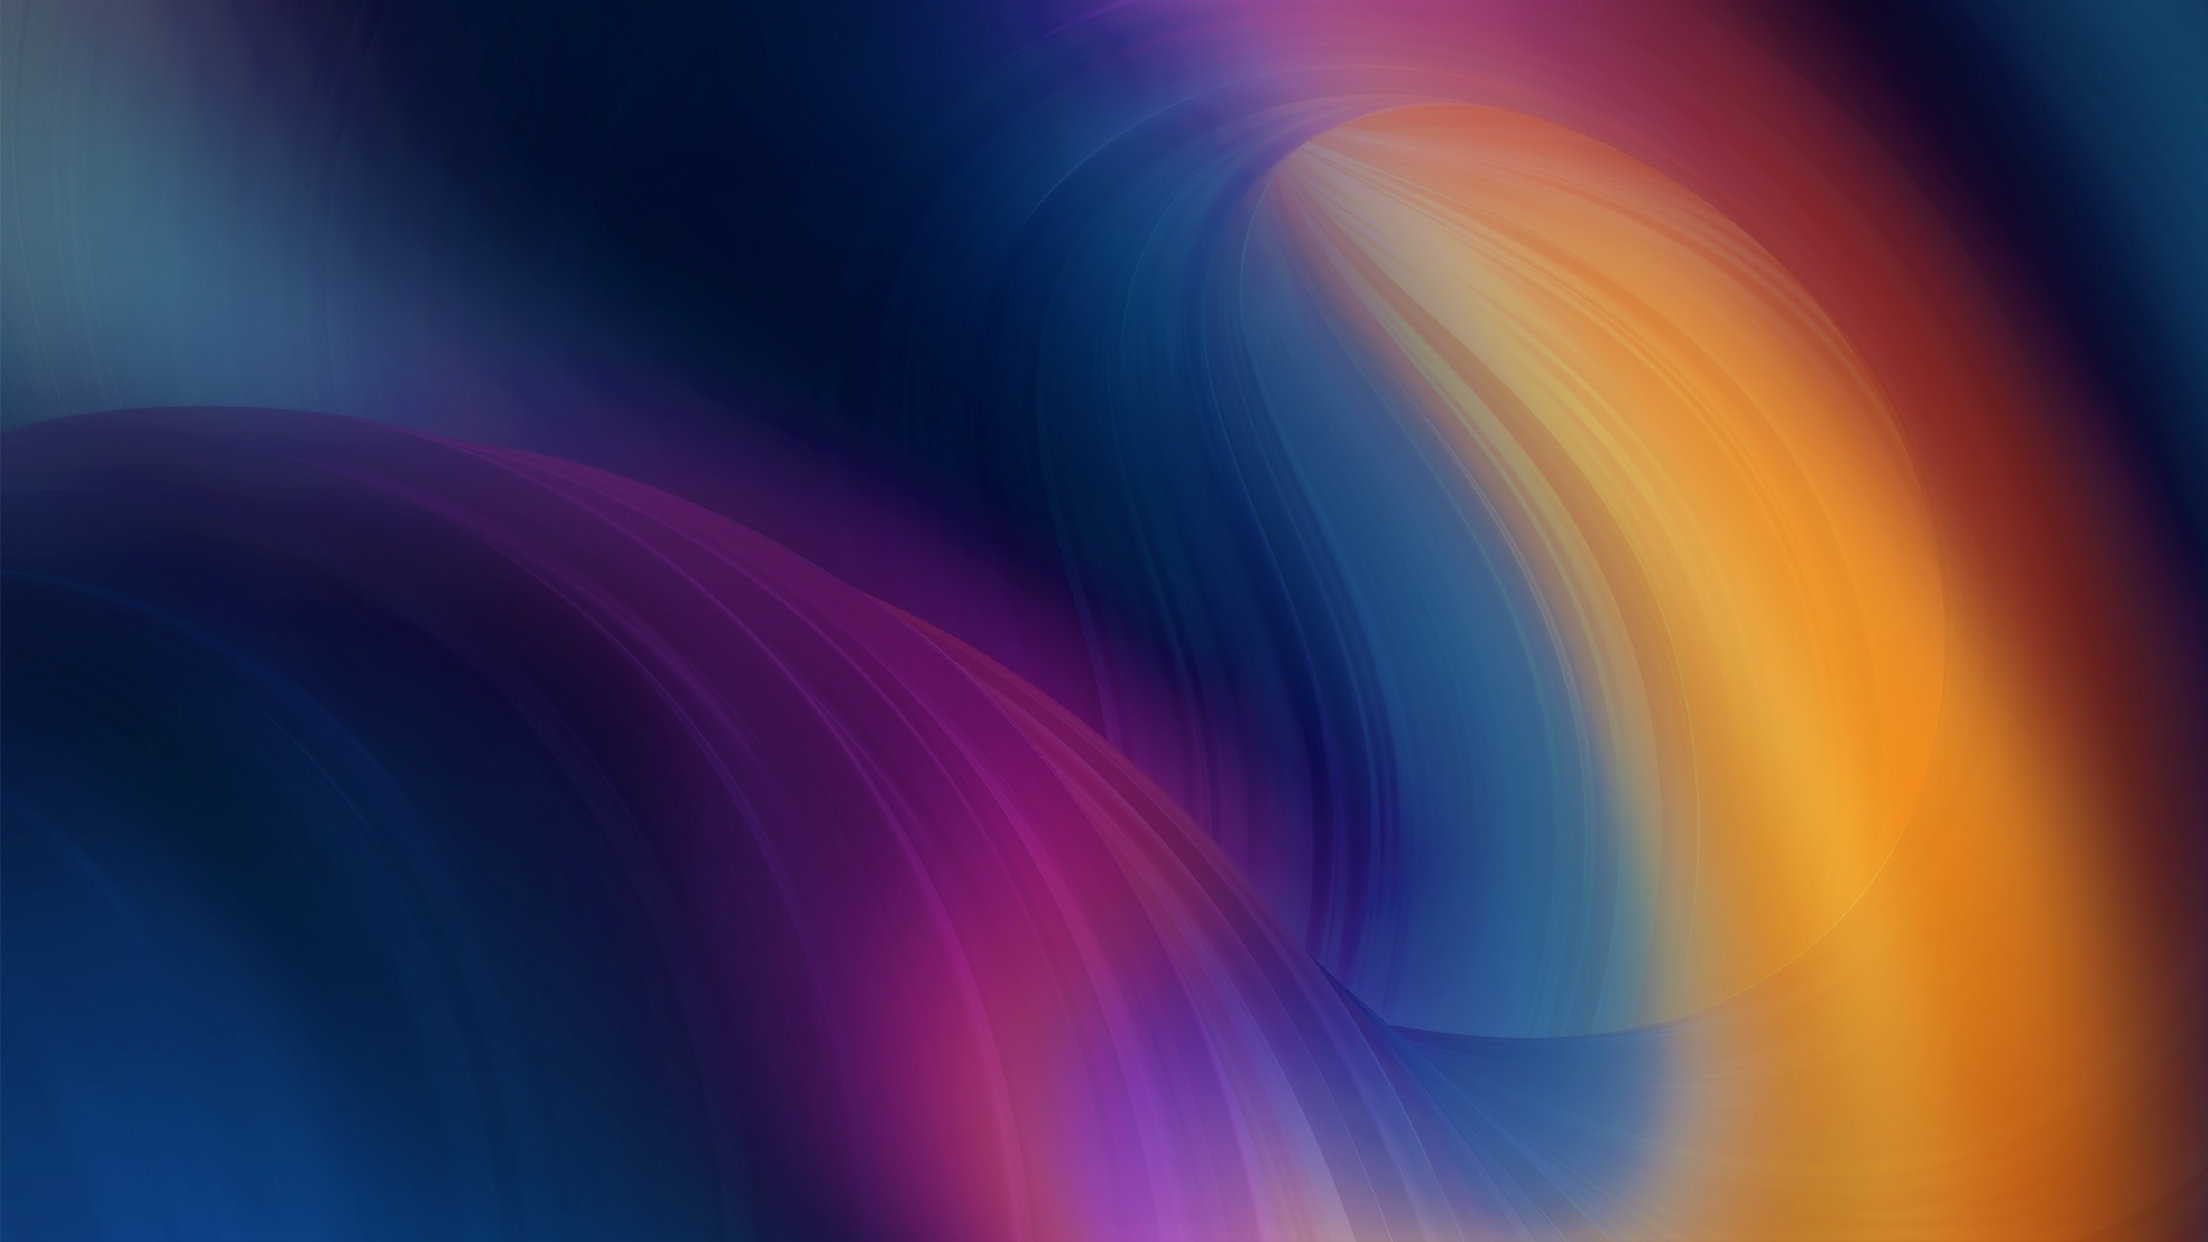
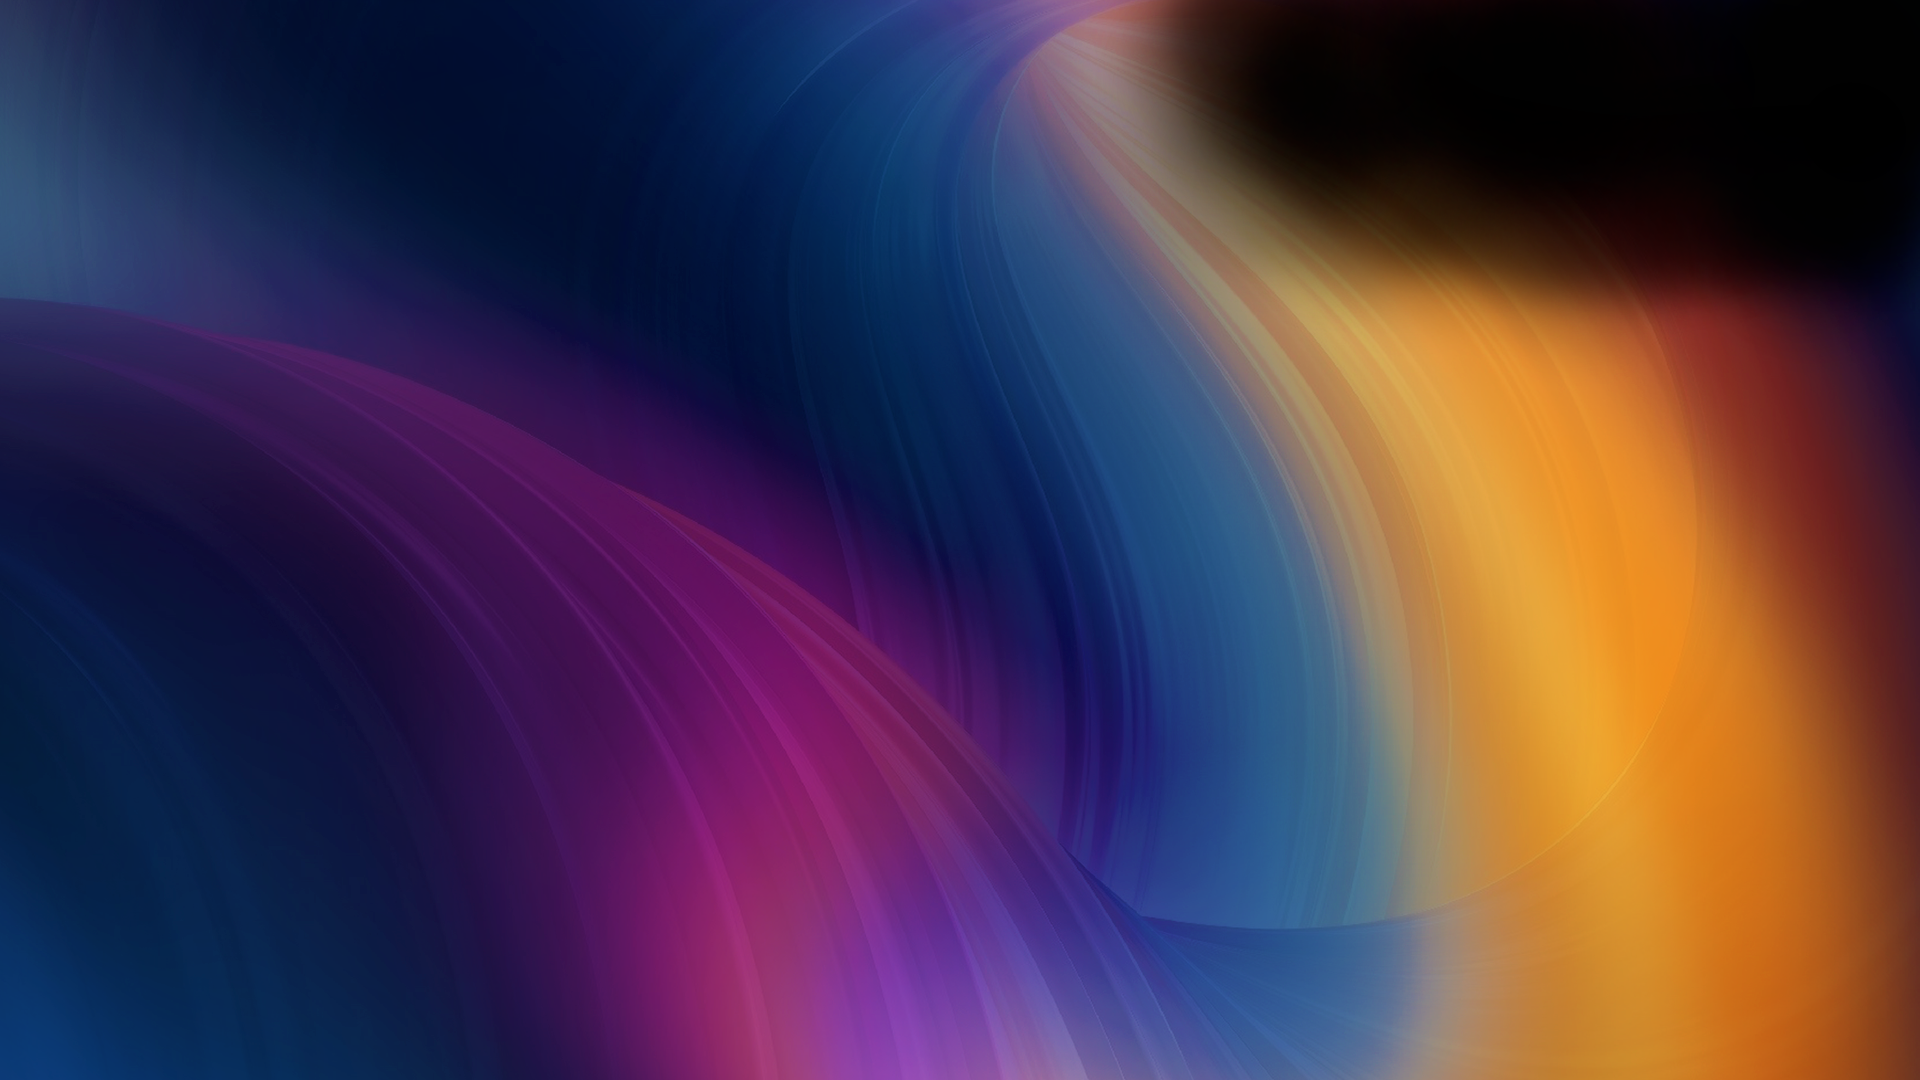
j'en ai marre

diff --git a/src/Exercice.py b/src/Exercice.py
@@ -80,9 +80,9 @@ class exercice(Thread):
             self.VideoPoint = utile.Patron(self.VideoPoint[:, 1], True)
         self.Video_thread.frame_count += 1
 
-    def AddData(self,listSum,ymax):
+    def AddData(self,listSum,ymin,ymax):
         plt.cla()
-        plt.ylim(0, ymax)
+        plt.ylim(ymin, ymax)
         plt.xlim(0,len(self.listSum)-1)
         canvas = FigureCanvas(self.fig)
         plt.plot(range(0, len(listSum)), listSum)
@@ -215,7 +215,7 @@ class exercice(Thread):
                           " == Video : " + str(self.Video_thread.frame_count), end="\r")
 #==============================================================================#
                 if (self.Camera_thread.frame_count) % 10 == 0:
-                    self.data = self.AddData(self.listSum,1)
+                    self.data = self.AddData(self.listSum,0,1)
 
                 if self.data is not None and len(self.listSum) != 0:
                     self.Video[0:self.data.shape[0], self.Video.shape[1] -
@@ -268,20 +268,22 @@ class exercice(Thread):
         cv2.destroyWindow('Video')
 
     def fin(self):
-        self.Video[:, :] = [200, 200, 200]
+        self.Video = cv2.imread('wallpaper.png')
         if len(self.totalscore) == 0:
             self.totalscore.append(0)
         i = 0
-        self.fig.patch.set_facecolor('#c8c8c8')
+        self.fig.patch.set_facecolor('#000000')
         self.fig.patch.set_alpha(0.5)
+        plt.tick_params(axis='x', colors='white')
+        plt.tick_params(axis='y', colors='white')
         score = 0
         while True:
             Image = self.Video.copy()
             if i < len(self.totalscore):
                 score += self.totalscore[i]
                 i += 1
-            cv2.putText(Image, str("Score :")+str(score),(50, 700), cv2.FONT_HERSHEY_SIMPLEX, 4, (0, 0, 0), 12)
-            self.data = self.AddData(self.totalscore[0:i],250)
+            cv2.putText(Image, str("Score :")+str(score),(50, 700), cv2.FONT_HERSHEY_SIMPLEX, 4, (255, 255, 255), 12)
+            self.data = self.AddData(self.totalscore[0:i],-10,210)
             self.Video[0:self.data.shape[0], self.Video.shape[1] - self.data.shape[1]:self.Video.shape[1]] = self.data
             ##Note :
             if self.erreurpourcent < 5 :
@@ -305,8 +307,8 @@ class exercice(Thread):
             elif self.erreurpourcent < 50:
                 note = str("F")
                 colornote = (209,206,0)
-            cv2.putText(Image, str("Note : "),(1000, 700), cv2.FONT_HERSHEY_SIMPLEX, 4, (0,0,0), 12)
-            cv2.putText(Image, note,(1400, 900), cv2.FONT_HERSHEY_SIMPLEX, 20, (0,0,0), 25)
+            cv2.putText(Image, str("Note : "),(1000, 700), cv2.FONT_HERSHEY_SIMPLEX, 4, (255,255,255), 12)
+            cv2.putText(Image, note,(1400, 900), cv2.FONT_HERSHEY_SIMPLEX, 20, (255,255,255), 25)
             cv2.putText(Image, note,(1410, 900), cv2.FONT_HERSHEY_SIMPLEX, 20, colornote, 25)
 
             if i < self.countcourage:
@@ -337,7 +339,7 @@ class exercice(Thread):
             #cv2.putText(Image, str("Pas mal : ")+str(self.countpasmal),(500, 400), cv2.FONT_HERSHEY_SIMPLEX, 1, (0,215,255), 6)
             #cv2.putText(Image, str("Courage : ")+str(self.countcourage),(50, 400), cv2.FONT_HERSHEY_SIMPLEX, 1, (0,140,255), 6)
             #cv2.putText(Image, str("Tres bien : ")+str(i),(1400, 400), cv2.FONT_HERSHEY_SIMPLEX, 1, (0,252,124), 6)
-            cv2.putText(Image, str("Cliquez pour retourner au menu"),(50, 1000), cv2.FONT_HERSHEY_SIMPLEX, 2, (0, 0, 0), 5)
+            cv2.putText(Image, str("Cliquez pour retourner au menu"),(50, 1000), cv2.FONT_HERSHEY_SIMPLEX, 2, (255, 255, 255), 5)
             cv2.imshow('Video', Image)
 
             if (cv2.waitKey(25) & 0xFF == ord('q')) or self.clique == True:
